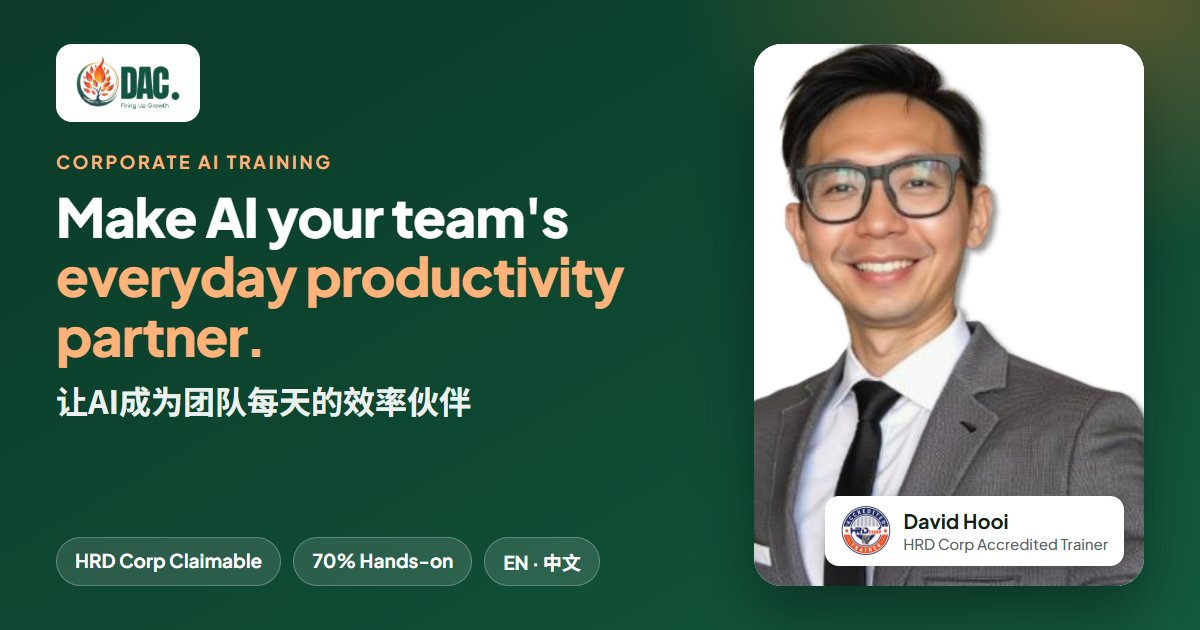
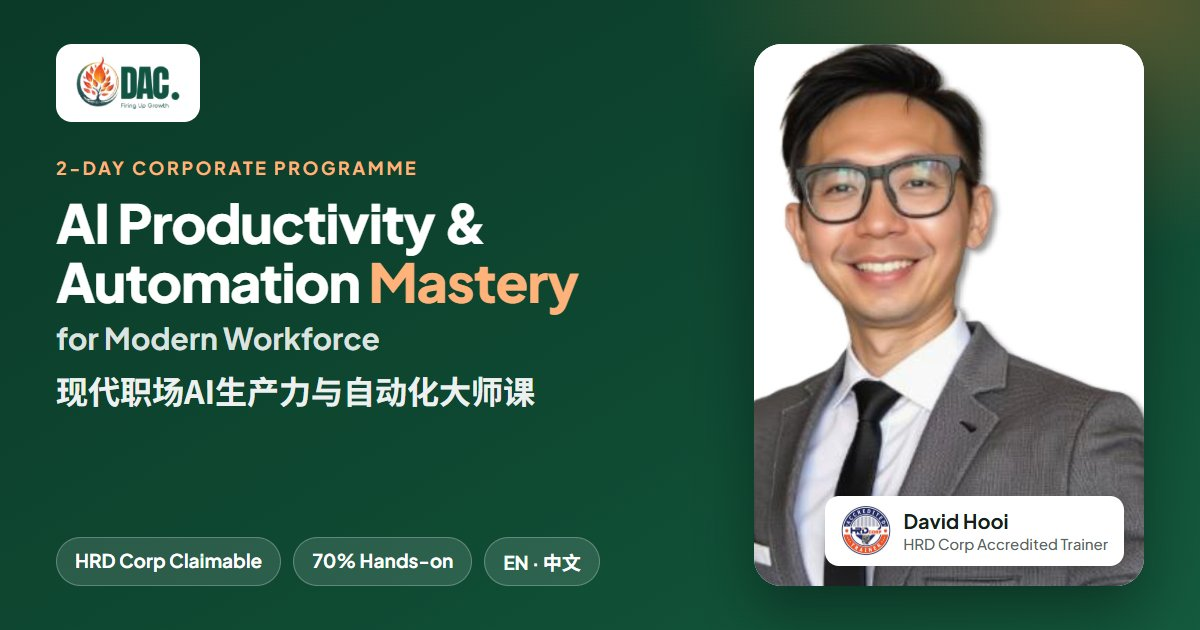
Introduce the AI Productivity & Automation Mastery course with interactive programme explorer
Course title in hero, meta tags and share thumbnail; About section with key facts;
Day 1/Day 2 tabs with expandable modules; role finder highlighting relevant modules.

Changed region(s): [[0.0308, 0.2413, 0.5242, 0.6635]]

diff --git a/index.html b/index.html
@@ -3,26 +3,26 @@
 <head>
 <meta charset="utf-8">
 <meta name="viewport" content="width=device-width, initial-scale=1">
-<title>AI for the Modern Workforce | David Hooi</title>
-<meta name="description" content="Hands-on corporate AI training by David Hooi, HRD Corp Accredited Trainer. Your team leaves with working AI assistants, dashboards, content and an AI roadmap. 企业AI实战培训。">
+<title>AI Productivity &amp; Automation Mastery for Modern Workforce | David Hooi</title>
+<meta name="description" content="AI Productivity &amp; Automation Mastery for Modern Workforce — a 2-day hands-on corporate programme by David Hooi, HRD Corp Accredited Trainer. HRD Corp claimable. 现代职场AI生产力与自动化大师课。">
 
 <meta property="og:type" content="website">
 <meta property="og:site_name" content="D Action Consultancy &amp; Services Sdn Bhd">
 <meta property="og:locale" content="en_MY">
 <meta property="og:locale:alternate" content="zh_CN">
 <meta property="og:url" content="https://dhooi266.github.io/ai-corporate-training/">
-<meta property="og:title" content="Make AI Your Team's Everyday Productivity Partner | 让AI成为团队的效率伙伴">
-<meta property="og:description" content="Hands-on corporate AI training by David Hooi — HRD Corp Accredited Trainer, 6,000+ professionals trained across 100+ companies. HRD Corp claimable. 企业AI实战培训，可申请HRD Corp。">
+<meta property="og:title" content="AI Productivity &amp; Automation Mastery for Modern Workforce | 现代职场AI生产力与自动化大师课">
+<meta property="og:description" content="2-day hands-on corporate programme by David Hooi — HRD Corp Accredited Trainer, 6,000+ professionals trained across 100+ companies. HRD Corp claimable. 企业AI实战培训，可申请HRD Corp。">
 <meta property="og:image" content="https://dhooi266.github.io/ai-corporate-training/og-image.jpg">
 <meta property="og:image:secure_url" content="https://dhooi266.github.io/ai-corporate-training/og-image.jpg">
 <meta property="og:image:type" content="image/jpeg">
 <meta property="og:image:width" content="1200">
 <meta property="og:image:height" content="630">
-<meta property="og:image:alt" content="Corporate AI training by David Hooi, D Action Consultancy.">
+<meta property="og:image:alt" content="AI Productivity &amp; Automation Mastery for Modern Workforce — trainer David Hooi, D Action Consultancy.">
 
 <meta name="twitter:card" content="summary_large_image">
-<meta name="twitter:title" content="Make AI Your Team's Everyday Productivity Partner">
-<meta name="twitter:description" content="Hands-on corporate AI training by David Hooi — HRD Corp Accredited Trainer. 企业AI实战培训。">
+<meta name="twitter:title" content="AI Productivity &amp; Automation Mastery for Modern Workforce">
+<meta name="twitter:description" content="2-day hands-on corporate programme by David Hooi — HRD Corp Accredited Trainer. 企业AI实战培训。">
 <meta name="twitter:image" content="https://dhooi266.github.io/ai-corporate-training/og-image.jpg">
 
 <meta name="theme-color" content="#0f4a33">
@@ -96,6 +96,9 @@ html[data-lang="zh"] .eyebrow{letter-spacing:.06em}
 .hero .eyebrow::before{background:#ffb27a}
 .hero h1{font-size:clamp(36px,5.2vw,62px);font-weight:800;margin:18px 0 20px}
 .hero h1 em{font-style:normal;color:#ffb27a}
+.hero h1 small{display:block;font-size:.44em;font-weight:700;color:rgba(255,255,255,.82);margin-top:12px;letter-spacing:0}
+html[data-lang="zh"] .hero h1 small{font-size:.34em;color:rgba(255,255,255,.62)}
+.hero .tagline{font-size:20px;font-weight:700;color:#fff;margin:0 0 14px;padding-left:14px;border-left:3px solid var(--orange)}
 .hero .lead{font-size:19px;color:rgba(255,255,255,.85);max-width:560px}
 .hero-cta{display:flex;flex-wrap:wrap;gap:12px;margin-top:32px}
 .hero-tags{display:flex;flex-wrap:wrap;gap:8px;margin-top:28px}
@@ -135,6 +138,65 @@ html[data-lang="zh"] .eyebrow{letter-spacing:.06em}
 .dl strong{display:block;font-size:18px;margin-bottom:4px}
 .dl span{color:rgba(255,255,255,.75);font-size:15px}
 .dl{padding:0;margin:0}
+
+/* about */
+.about-grid{display:grid;grid-template-columns:1.25fr .75fr;gap:56px;align-items:center}
+.about-p{color:var(--muted);margin-top:16px;font-size:18px}
+.about-p b{color:var(--ink)}
+.facts{display:grid;grid-template-columns:1fr 1fr;gap:14px}
+.fact{background:var(--green);color:#fff;border-radius:var(--radius);padding:24px 20px;transition:transform .2s}
+.fact:nth-child(2),.fact:nth-child(3){background:var(--orange-soft);color:var(--ink)}
+.fact:hover{transform:translateY(-4px)}
+.fact b{display:block;font-size:40px;font-weight:800;line-height:1}
+.fact b small{font-size:.45em;margin-left:4px}
+.fact:nth-child(2) b,.fact:nth-child(3) b{color:var(--orange-2)}
+.fact span{display:block;margin-top:8px;font-size:15px;font-weight:600;opacity:.9}
+
+/* explorer */
+.explorer{background:var(--bg-2)}
+.rolefinder{background:#fff;border:1px solid var(--line);border-radius:var(--radius);padding:24px;box-shadow:var(--shadow);margin-bottom:28px}
+.rf-q{font-weight:700;margin-bottom:12px}
+.roles{display:flex;flex-wrap:wrap;gap:10px}
+.role{font:inherit;font-size:15px;font-weight:600;padding:10px 18px;border-radius:999px;border:1.5px solid var(--line);background:#fff;color:var(--ink);cursor:pointer;transition:all .15s}
+.role:hover{border-color:var(--green-2);color:var(--green)}
+.role[aria-pressed="true"]{background:var(--green);border-color:var(--green);color:#fff}
+.rf-out{margin-top:20px;padding-top:18px;border-top:1px dashed var(--line);animation:fade .35s ease}
+.rf-h{font-weight:700;color:var(--orange-2);margin-bottom:10px}
+.rf-out ul{margin:0;padding:0;list-style:none;display:grid;grid-template-columns:repeat(3,1fr);gap:12px}
+.rf-out li{background:var(--green-soft);border-radius:12px;padding:14px 16px;font-weight:600;font-size:15px;color:var(--green)}
+@keyframes fade{from{opacity:0;transform:translateY(6px)}to{opacity:1;transform:none}}
+.tabs{display:grid;grid-template-columns:1fr 1fr;gap:12px;margin-bottom:16px}
+.tabs button{position:relative;font:inherit;text-align:left;cursor:pointer;border:1.5px solid var(--line);background:#fff;border-radius:16px;padding:16px 20px;display:flex;flex-direction:column;gap:2px;color:var(--ink);transition:all .15s}
+.tabs button b{font-size:13px;letter-spacing:.12em;text-transform:uppercase;color:var(--orange-2)}
+.tabs button span{font-weight:700;font-size:17px}
+.tabs button[aria-selected="true"]{background:var(--green);border-color:var(--green);color:#fff;box-shadow:0 12px 28px rgba(15,74,51,.25)}
+.tabs button[aria-selected="true"] b{color:#ffb27a}
+.cnt{position:absolute;top:12px;right:14px;font-style:normal;font-size:12px;font-weight:800;background:var(--orange);color:#fff;border-radius:999px;padding:2px 9px;display:none}
+.cnt.on{display:block}
+.pane{display:grid;gap:12px;animation:fade .3s ease}
+.pane[hidden]{display:none}
+.mod{background:#fff;border:1.5px solid var(--line);border-radius:16px;overflow:hidden;transition:border-color .2s,box-shadow .2s,opacity .2s}
+.mod summary{list-style:none;display:flex;align-items:center;gap:16px;padding:18px 20px;cursor:pointer}
+.mod summary::-webkit-details-marker{display:none}
+.mod .mn{flex:none;width:46px;height:46px;border-radius:12px;background:var(--green-soft);color:var(--green);font-weight:800;display:grid;place-items:center;transition:background .2s,color .2s}
+.mod[open] .mn{background:var(--green);color:#fff}
+.mt{flex:1;min-width:0}
+.mt small{display:block;font-size:13px;font-weight:600;color:var(--muted)}
+.mt strong{font-size:18px;line-height:1.35}
+.rel{display:none;flex:none;font-size:12px;font-weight:800;color:#fff;background:var(--orange);padding:4px 10px;border-radius:999px}
+.chev{flex:none;width:12px;height:12px;border-right:2.5px solid var(--muted);border-bottom:2.5px solid var(--muted);transform:rotate(45deg);transition:transform .2s;margin:0 6px 6px 0}
+.mod[open] .chev{transform:rotate(-135deg);margin:6px 6px 0 0}
+.mb{padding:0 20px 20px 82px}
+.mb ul{margin:0 0 14px;padding-left:18px;color:var(--muted)}
+.mb li{margin:4px 0}
+.mb li b{color:var(--ink)}
+.ex{background:var(--orange-soft);border-radius:12px;padding:12px 16px;font-size:15px}
+.ex b{color:var(--orange-2)}
+.explorer.filtering .mod{opacity:.5}
+.explorer.filtering .mod.hl{opacity:1;border-color:var(--orange);box-shadow:0 10px 26px rgba(232,121,47,.15)}
+.mod.hl .rel{display:inline-block}
+@media (max-width:960px){.about-grid{grid-template-columns:1fr;gap:32px}.rf-out ul{grid-template-columns:1fr}}
+@media (max-width:640px){.mb{padding:0 16px 18px}.mod summary{padding:16px;gap:12px}.mod .mn{width:40px;height:40px}.mt strong{font-size:16px}.rel{display:none!important}.tabs button{padding:14px}.tabs button span{font-size:15px}.fact b{font-size:32px}}
 
 /* impact */
 .impact{display:grid;grid-template-columns:repeat(4,1fr);gap:20px}
@@ -278,18 +340,19 @@ footer .flogo img{height:38px;width:auto}
 <header class="hero" id="top">
   <div class="wrap">
     <div>
-      <span class="eyebrow"><span class="en">Corporate AI Training · HRD Corp Claimable</span><span class="zh">企业AI培训 · 可申请 HRD Corp</span></span>
+      <span class="eyebrow"><span class="en">2-Day Corporate Programme · HRD Corp Claimable</span><span class="zh">两天企业培训课程 · 可申请 HRD Corp</span></span>
       <h1>
-        <span class="en">Make AI your team's <em>everyday productivity partner.</em></span>
-        <span class="zh">让AI成为团队<em>每天都在用的效率伙伴。</em></span>
+        <span class="en">AI Productivity &amp; Automation <em>Mastery</em><small>for Modern Workforce</small></span>
+        <span class="zh">现代职场AI生产力与<em>自动化大师课</em><small lang="en">AI Productivity &amp; Automation Mastery for Modern Workforce</small></span>
       </h1>
+      <p class="tagline"><span class="en">Make AI your team's everyday productivity partner.</span><span class="zh">让AI成为团队每天都在用的效率伙伴。</span></p>
       <p class="lead">
-        <span class="en">A hands-on, in-house programme that moves your people beyond basic chatting with AI. They leave with working AI assistants, dashboards, content and a clear roadmap — ready to use the next working day.</span>
-        <span class="zh">一套为企业量身打造的实战培训，带领员工超越“只会和AI聊天”的阶段。学员离开课堂时，手上已经有可运作的AI助手、数据仪表板、内容成品和清晰的AI落地路线图——第二天上班就能用。</span>
+        <span class="en">A hands-on 2-day programme that moves your people beyond basic chatting with AI. They leave with working AI assistants, dashboards, content and a clear roadmap — ready to use the next working day.</span>
+        <span class="zh">一套为企业量身打造的两天实战课程，带领员工超越“只会和AI聊天”的阶段。学员离开课堂时，手上已经有可运作的AI助手、数据仪表板、内容成品和清晰的AI落地路线图——第二天上班就能用。</span>
       </p>
       <div class="hero-cta">
         <a class="btn btn-primary" href="https://wa.me/60184043913" target="_blank" rel="noopener"><svg><use href="#i-wa"/></svg><span class="en">WhatsApp David</span><span class="zh">WhatsApp 联系 David</span></a>
-        <a class="btn btn-ghost" href="#gains"><span class="en">What your team gains</span><span class="zh">团队将获得什么</span></a>
+        <a class="btn btn-ghost" href="#programme"><span class="en">Explore the programme</span><span class="zh">查看课程内容</span></a>
       </div>
       <div class="hero-tags">
         <span class="en">2-day in-house</span><span class="zh">两天企业内训</span>
@@ -320,6 +383,22 @@ footer .flogo img{height:38px;width:auto}
 <section class="logostrip" aria-label="Organisations trained">
   <p class="ls-title"><span class="en">Trusted by teams at</span><span class="zh">合作过的机构包括</span></p>
   <div class="marquee"><div class="track"><img src="assets/logos/exxonmobil.png" alt="ExxonMobil"><img src="assets/logos/novartis.png" alt="Novartis"><img src="assets/logos/greateastern.png" alt="Great Eastern"><img src="assets/logos/rhb.png" alt="RHB"><img src="assets/logos/kwsp.png" alt="KWSP"><img src="assets/logos/tesla.png" alt="Tesla"><img src="assets/logos/intel.png" alt="Intel"><img src="assets/logos/electrolux.png" alt="Electrolux"><img src="assets/logos/tnb.png" alt="Tenaga Nasional"><img src="assets/logos/drbhicom.png" alt="DRB-HICOM"><img src="assets/logos/uobkayhian.png" alt="UOB Kay Hian"><img src="assets/logos/aon.png" alt="AON"><img src="assets/logos/haier.png" alt="Haier"><img src="assets/logos/sunway.png" alt="Sunway Medical Centre"><img src="assets/logos/nuskin.png" alt="Nu Skin"><img src="assets/logos/mubadala.png" alt="Mubadala Energy"><img src="assets/logos/proton.png" alt="Proton"><img src="assets/logos/kkmm.png" alt="KKMM"><img src="assets/logos/demant.png" alt="Demant"><img src="assets/logos/bsv.png" alt="BSV"><img src="assets/logos/menarini.png" alt="Menarini"><img src="assets/logos/jump.png" alt="Jump Retail"><img src="assets/logos/cid.png" alt="CID Realtors"><img src="assets/logos/kim.png" alt="KIM Realty"><img src="assets/logos/kbs.png" alt="KBS"><img src="assets/logos/ouji.png" alt="OUJI"><img src="assets/logos/exxonmobil.png" alt="" aria-hidden="true"><img src="assets/logos/novartis.png" alt="" aria-hidden="true"><img src="assets/logos/greateastern.png" alt="" aria-hidden="true"><img src="assets/logos/rhb.png" alt="" aria-hidden="true"><img src="assets/logos/kwsp.png" alt="" aria-hidden="true"><img src="assets/logos/tesla.png" alt="" aria-hidden="true"><img src="assets/logos/intel.png" alt="" aria-hidden="true"><img src="assets/logos/electrolux.png" alt="" aria-hidden="true"><img src="assets/logos/tnb.png" alt="" aria-hidden="true"><img src="assets/logos/drbhicom.png" alt="" aria-hidden="true"><img src="assets/logos/uobkayhian.png" alt="" aria-hidden="true"><img src="assets/logos/aon.png" alt="" aria-hidden="true"><img src="assets/logos/haier.png" alt="" aria-hidden="true"><img src="assets/logos/sunway.png" alt="" aria-hidden="true"><img src="assets/logos/nuskin.png" alt="" aria-hidden="true"><img src="assets/logos/mubadala.png" alt="" aria-hidden="true"><img src="assets/logos/proton.png" alt="" aria-hidden="true"><img src="assets/logos/kkmm.png" alt="" aria-hidden="true"><img src="assets/logos/demant.png" alt="" aria-hidden="true"><img src="assets/logos/bsv.png" alt="" aria-hidden="true"><img src="assets/logos/menarini.png" alt="" aria-hidden="true"><img src="assets/logos/jump.png" alt="" aria-hidden="true"><img src="assets/logos/cid.png" alt="" aria-hidden="true"><img src="assets/logos/kim.png" alt="" aria-hidden="true"><img src="assets/logos/kbs.png" alt="" aria-hidden="true"><img src="assets/logos/ouji.png" alt="" aria-hidden="true"></div></div>
+</section>
+<section class="sec about" id="about">
+  <div class="wrap about-grid">
+    <div>
+      <span class="eyebrow"><span class="en">About the programme</span><span class="zh">课程简介</span></span>
+      <h2 style="margin-top:14px"><span class="en">Move beyond basic chatting with AI</span><span class="zh">超越“只会和AI聊天”</span></h2>
+      <p class="about-p"><span class="en"><b>AI Productivity &amp; Automation Mastery for Modern Workforce</b> equips professionals to use AI across content creation, research, data analysis and workflow automation. Participants work hands-on with ChatGPT, Claude, Gemini, Perplexity, DeepSeek, NotebookLM and leading visual and video tools, and build custom GPTs that take repetitive work off their plate.</span><span class="zh"><b>现代职场AI生产力与自动化大师课</b>帮助专业人士把AI应用到内容创作、调研、数据分析与工作流程自动化之中。学员将亲手操作 ChatGPT、Claude、Gemini、Perplexity、DeepSeek、NotebookLM 以及主流视觉与视频工具，并打造专属 GPT，把重复性工作交给AI。</span></p>
+      <p class="about-p"><span class="en">The two days end with every department building a practical AI implementation roadmap, so adoption continues after the training.</span><span class="zh">两天课程的最后，每个部门都会制定一份实用的AI落地路线图，确保培训结束后AI应用能持续推进。</span></p>
+    </div>
+    <div class="facts">
+      <div class="fact"><b>2</b><span><span class="en">days, 9:00 am – 5:00 pm</span><span class="zh">天，上午9点至下午5点</span></span></div>
+      <div class="fact"><b>6</b><span><span class="en">modules + final project</span><span class="zh">个模块 + 结业项目</span></span></div>
+      <div class="fact"><b>15+</b><span><span class="en">AI tools, hands-on</span><span class="zh">款AI工具实操</span></span></div>
+      <div class="fact"><b>HRD<small>Corp</small></b><span><span class="en">claimable</span><span class="zh">可申请津贴</span></span></div>
+    </div>
+  </div>
 </section>
 <section class="sec" id="gains">
   <div class="wrap">
@@ -359,6 +438,90 @@ footer .flogo img{height:38px;width:auto}
         <h3><span class="en">On-brand visuals &amp; video</span><span class="zh">符合品牌的视觉与视频</span></h3>
         <p><span class="en">Create images and short videos for marketing, training and internal comms that stay consistent with the company's brand.</span><span class="zh">为营销、培训与内部沟通制作图片和短视频，同时保持企业品牌风格一致。</span></p>
       </article>
+    </div>
+  </div>
+</section>
+
+<section class="sec explorer" id="programme">
+  <div class="wrap">
+    <div class="sec-head">
+      <span class="eyebrow"><span class="en">Explore the programme</span><span class="zh">课程内容</span></span>
+      <h2 style="margin-top:14px"><span class="en">Two days, six modules, one roadmap</span><span class="zh">两天、六个模块、一份路线图</span></h2>
+      <p><span class="en">Pick your role to see which modules will matter most to you, then open any module for the details.</span><span class="zh">选择您的岗位，看看哪些模块与您最相关；点击任一模块查看详细内容。</span></p>
+    </div>
+
+    <div class="rolefinder">
+      <p class="rf-q"><span class="en">I work in…</span><span class="zh">我的岗位是…</span></p>
+      <div class="roles" role="group" aria-label="Role">
+        <button type="button" class="role" data-role="sales" aria-pressed="false"><span class="en">Sales &amp; BD</span><span class="zh">销售与业务拓展</span></button>
+        <button type="button" class="role" data-role="mkt" aria-pressed="false"><span class="en">Marketing &amp; Comms</span><span class="zh">市场与传播</span></button>
+        <button type="button" class="role" data-role="mgr" aria-pressed="false"><span class="en">Managers &amp; Leaders</span><span class="zh">经理与管理层</span></button>
+        <button type="button" class="role" data-role="hr" aria-pressed="false"><span class="en">HR &amp; L&amp;D</span><span class="zh">人力资源与培训</span></button>
+        <button type="button" class="role" data-role="fin" aria-pressed="false"><span class="en">Finance &amp; Analysts</span><span class="zh">财务与分析</span></button>
+        <button type="button" class="role" data-role="ops" aria-pressed="false"><span class="en">Operations &amp; Admin</span><span class="zh">营运与行政</span></button>
+      </div>
+      <div class="rf-out" id="rfOut" hidden>
+        <p class="rf-h"><span class="en">What you could do after the programme:</span><span class="zh">课程结束后，您可以：</span></p>
+        <ul id="rfWins"></ul>
+      </div>
+    </div>
+
+    <div class="tabs" role="tablist" aria-label="Programme days">
+      <button type="button" role="tab" id="tab-d1" aria-controls="pane-d1" aria-selected="true"><b><span class="en">Day 1</span><span class="zh">第一天</span></b><span><span class="en">Create, Analyse &amp; Automate</span><span class="zh">创作、分析与自动化</span></span><i class="cnt" data-cnt="d1"></i></button>
+      <button type="button" role="tab" id="tab-d2" aria-controls="pane-d2" aria-selected="false"><b><span class="en">Day 2</span><span class="zh">第二天</span></b><span><span class="en">Data, Visuals &amp; Roadmap</span><span class="zh">数据、视觉与路线图</span></span><i class="cnt" data-cnt="d2"></i></button>
+    </div>
+    <div class="pane" id="pane-d1" role="tabpanel" aria-labelledby="tab-d1">
+          <details class="mod" data-mod="m1" open>
+            <summary><span class="mn">M1</span><span class="mt"><small>9:30 – 11:00</small><strong><span class="en">Introduction to AI &amp; Prompt Engineering</span><span class="zh">AI入门与提示工程</span></strong></span><span class="rel"><span class="en">For your role</span><span class="zh">适合您的岗位</span></span><span class="chev" aria-hidden="true"></span></summary>
+            <div class="mb">
+              <ul><li><span class="en">AI use cases in business and how AI evolved</span><span class="zh">AI商业应用案例与AI的发展历程</span></li><li><span class="en">Prompt fundamentals: clarity, context and constraints</span><span class="zh">指令基础：清晰、情境与限制</span></li><li><span class="en">The CoSTAR framework — control tone, audience, format and accuracy</span><span class="zh">CoSTAR 框架——掌控语气、对象、格式与准确度</span></li><li><span class="en">Iterate: refine prompts with feedback and examples</span><span class="zh">迭代：用反馈与示例优化指令</span></li></ul>
+              <p class="ex"><b><span class="en">Hands-on:</span><span class="zh">实操：</span></b> <span class="en">write a sales performance email and a full marketing campaign with CoSTAR.</span><span class="zh">用 CoSTAR 撰写销售业绩电邮与完整营销方案。</span></p>
+            </div>
+          </details>
+          <details class="mod" data-mod="m2">
+            <summary><span class="mn">M2</span><span class="mt"><small>11:15 – 12:45</small><strong><span class="en">LLMs for Content, Analysis &amp; Business Insights</span><span class="zh">用大语言模型做内容、分析与商业洞察</span></strong></span><span class="rel"><span class="en">For your role</span><span class="zh">适合您的岗位</span></span><span class="chev" aria-hidden="true"></span></summary>
+            <div class="mb">
+              <ul><li><span class="en"><b>ChatGPT</b> — interpret a large dataset with visuals and insights</span><span class="zh"><b>ChatGPT</b>——解读大型数据集并生成图表与洞察</span></li><li><span class="en"><b>Claude</b> — generate an interactive performance dashboard</span><span class="zh"><b>Claude</b>——生成互动式业绩仪表板</span></li><li><span class="en"><b>Perplexity</b> — deep research for competitive industry analysis</span><span class="zh"><b>Perplexity</b>——深度调研，完成行业竞争分析</span></li><li><span class="en"><b>DeepSeek</b> — marketing write-ups, local translation, 3-month LinkedIn plan</span><span class="zh"><b>DeepSeek</b>——营销文案、本地化翻译、三个月 LinkedIn 内容规划</span></li><li><span class="en"><b>Gemini</b> — vibe-code an AI assistant that runs data analysis</span><span class="zh"><b>Gemini</b>——用 vibe coding 打造自动数据分析助手</span></li></ul>
+              <p class="ex"><b><span class="en">Hands-on:</span><span class="zh">实操：</span></b> <span class="en">one exercise per tool, each on a real business case.</span><span class="zh">每款工具一个练习，皆为真实业务案例。</span></p>
+            </div>
+          </details>
+          <details class="mod" data-mod="m3">
+            <summary><span class="mn">M3</span><span class="mt"><small>1:45 – 3:15</small><strong><span class="en">Productivity Tools &amp; AI-Enhanced Workflows</span><span class="zh">效率工具与AI增强工作流程</span></strong></span><span class="rel"><span class="en">For your role</span><span class="zh">适合您的岗位</span></span><span class="chev" aria-hidden="true"></span></summary>
+            <div class="mb">
+              <ul><li><span class="en">Presentations with Gamma, Napkin AI and Nano Banana Pro</span><span class="zh">用 Gamma、Napkin AI、Nano Banana Pro 制作简报</span></li><li><span class="en">Workflow thinking: input → extract → structure → publish</span><span class="zh">流程思维：输入 → 提取 → 结构化 → 发布</span></li><li><span class="en">NotebookLM: summarise PDFs, Excel, video, image and audio into briefings</span><span class="zh">NotebookLM：把 PDF、Excel、视频、图片与音频整理成汇报重点</span></li></ul>
+              <p class="ex"><b><span class="en">Hands-on:</span><span class="zh">实操：</span></b> <span class="en">build a full slide deck against the clock, turn a report into a one-page infographic poster.</span><span class="zh">限时完成整套简报，并把报告变成一页信息图海报。</span></p>
+            </div>
+          </details>
+          <details class="mod" data-mod="m4">
+            <summary><span class="mn">M4</span><span class="mt"><small>3:30 – 5:00</small><strong><span class="en">Custom GPTs &amp; Chatbots to Automate Work</span><span class="zh">打造自动化工作的专属GPT与聊天机器人</span></strong></span><span class="rel"><span class="en">For your role</span><span class="zh">适合您的岗位</span></span><span class="chev" aria-hidden="true"></span></summary>
+            <div class="mb">
+              <ul><li><span class="en">Build and customise GPTs for workflow automation</span><span class="zh">构建与定制用于流程自动化的 GPT</span></li><li><span class="en">Design a GPT for your role: FAQ bot, content assistant or workflow orchestrator</span><span class="zh">为岗位设计 GPT：FAQ 机器人、内容助理或流程协调助手</span></li></ul>
+              <p class="ex"><b><span class="en">Hands-on:</span><span class="zh">实操：</span></b> <span class="en">teams automate a common business task and present their solution.</span><span class="zh">各组自动化一项常见业务任务并汇报方案。</span></p>
+            </div>
+          </details>
+    </div>
+    <div class="pane" id="pane-d2" role="tabpanel" aria-labelledby="tab-d2" hidden>
+          <details class="mod" data-mod="m5" open>
+            <summary><span class="mn">M5</span><span class="mt"><small>9:15 – 11:00</small><strong><span class="en">Data &amp; Financial Analysis with AI</span><span class="zh">用AI做数据与财务分析</span></strong></span><span class="rel"><span class="en">For your role</span><span class="zh">适合您的岗位</span></span><span class="chev" aria-hidden="true"></span></summary>
+            <div class="mb">
+              <ul><li><span class="en">Import, clean and analyse datasets with AI assistants</span><span class="zh">用AI助手导入、清理与分析数据</span></li><li><span class="en">Generate financial models and projection dashboards</span><span class="zh">生成财务模型与预测仪表板</span></li></ul>
+              <p class="ex"><b><span class="en">Hands-on:</span><span class="zh">实操：</span></b> <span class="en">financial forecasting, cash-flow modelling, budget scenarios and supplier evaluation.</span><span class="zh">财务预测、现金流建模、预算情境分析与供应商评估。</span></p>
+            </div>
+          </details>
+          <details class="mod" data-mod="m6">
+            <summary><span class="mn">M6</span><span class="mt"><small>11:15 – 1:00</small><strong><span class="en">AI for Visual &amp; Video Content Creation</span><span class="zh">AI视觉与视频内容创作</span></strong></span><span class="rel"><span class="en">For your role</span><span class="zh">适合您的岗位</span></span><span class="chev" aria-hidden="true"></span></summary>
+            <div class="mb">
+              <ul><li><span class="en">Image and video generation for marketing, training and internal comms</span><span class="zh">为营销、培训与内部沟通生成图片与视频</span></li><li><span class="en">Tools: Leonardo, Ideogram, Nano Banana Pro, SeeDream, Veo 3, Sora 2</span><span class="zh">工具：Leonardo、Ideogram、Nano Banana Pro、SeeDream、Veo 3、Sora 2</span></li><li><span class="en">Keeping visuals and video consistent with your brand</span><span class="zh">确保视觉与视频保持品牌一致</span></li></ul>
+              <p class="ex"><b><span class="en">Hands-on:</span><span class="zh">实操：</span></b> <span class="en">create a video-enhanced visual campaign for a product or internal comms.</span><span class="zh">为产品或内部沟通制作结合视频的视觉宣传。</span></p>
+            </div>
+          </details>
+          <details class="mod" data-mod="fp">
+            <summary><span class="mn">★</span><span class="mt"><small>2:10 – 4:55</small><strong><span class="en">Final Project: AI Implementation Roadmap</span><span class="zh">结业项目：AI落地路线图</span></strong></span><span class="rel"><span class="en">For your role</span><span class="zh">适合您的岗位</span></span><span class="chev" aria-hidden="true"></span></summary>
+            <div class="mb">
+              <ul><li><span class="en">Problem statement, AI use cases, stakeholders, tools and data</span><span class="zh">问题陈述、AI应用场景、相关人员、工具与数据</span></li><li><span class="en">Pilot plan and success metrics</span><span class="zh">试点计划与成功指标</span></li><li><span class="en">Map use cases into quick wins (3–6 mo), mid-term (6–12 mo) and long-term (12–24 mo)</span><span class="zh">把应用场景规划为短期（3–6个月）、中期（6–12个月）与长期（12–24个月）</span></li></ul>
+              <p class="ex"><b><span class="en">Hands-on:</span><span class="zh">实操：</span></b> <span class="en">each group presents its department roadmap.</span><span class="zh">各组汇报部门AI路线图。</span></p>
+            </div>
+          </details>
     </div>
   </div>
 </section>
@@ -469,8 +632,8 @@ footer .flogo img{height:38px;width:auto}
 
 <section class="sec cta" id="contact">
   <div class="wrap">
-    <h2><span class="en">Bring practical AI to your team</span><span class="zh">把实用AI带进您的团队</span></h2>
-    <p><span class="en">Tell us about your team and goals — we'll tailor the examples, exercises and tools to your industry. HRD Corp claimable.</span><span class="zh">告诉我们您的团队与目标，我们会根据您的行业量身调整案例、练习与工具。可申请 HRD Corp 津贴。</span></p>
+    <h2><span class="en">Bring AI Productivity &amp; Automation Mastery to your team</span><span class="zh">把AI生产力与自动化大师课带进您的团队</span></h2>
+    <p><span class="en">Run it in-house for your organisation. Tell us about your team and goals — we'll tailor the examples, exercises and tools to your industry. HRD Corp claimable.</span><span class="zh">为您的机构举办企业内训。告诉我们您的团队与目标，我们会根据您的行业量身调整案例、练习与工具。可申请 HRD Corp 津贴。</span></p>
     <div class="hero-cta">
       <a class="btn btn-primary" href="https://wa.me/60184043913" target="_blank" rel="noopener"><svg><use href="#i-wa"/></svg><span class="en">WhatsApp +60 18-404 3913</span><span class="zh">WhatsApp +60 18-404 3913</span></a>
       <a class="btn btn-ghost" href="mailto:david@daction.com"><svg><use href="#i-mail"/></svg>david@daction.com</a>
@@ -490,7 +653,7 @@ footer .flogo img{height:38px;width:auto}
 <script>document.documentElement.classList.add("js");</script>
 <script>
 (function(){
-  var titles={en:"AI for the Modern Workforce | David Hooi",zh:"企业AI实战培训 | David Hooi"};
+  var titles={en:"AI Productivity & Automation Mastery for Modern Workforce | David Hooi",zh:"现代职场AI生产力与自动化大师课 | David Hooi"};
   function setLang(l){
     if(l!=="zh")l="en";
     var h=document.documentElement;
@@ -504,7 +667,30 @@ footer .flogo img{height:38px;width:auto}
   try{saved=localStorage.getItem("lang")}catch(e){}
   var nav=(navigator.language||"").toLowerCase().indexOf("zh")===0?"zh":"en";
   setLang(q||saved||nav);
-  var els=document.querySelectorAll(".sec-head,.card,.dl li,.imp,.step,.mix,.t-photo,.creds,.brands .box,.cta h2,.toolwall");
+
+  /* programme tabs */
+  var tabs=document.querySelectorAll('.tabs [role=tab]');
+  function showTab(t){tabs.forEach(function(b){var on=b===t;b.setAttribute('aria-selected',on);document.getElementById(b.getAttribute('aria-controls')).hidden=!on})}
+  tabs.forEach(function(b){b.addEventListener('click',function(){showTab(b)})});
+  /* role finder */
+  var R={"sales":{"mods":["m1","m2","m4","m6"],"wins":[["Personalised follow-up emails in minutes","几分钟写好个性化跟进电邮"],["Competitor research briefs with Perplexity","用 Perplexity 做竞争对手调研"],["A GPT that drafts proposals and replies","自动起草提案与回复的 GPT"]]},"mkt":{"mods":["m1","m2","m3","m6"],"wins":[["A 3-month content calendar in one sitting","一次完成三个月内容规划"],["On-brand visuals and short videos","符合品牌的视觉与短视频"],["Reports turned into shareable infographics","把报告变成可分享的信息图"]]},"mgr":{"mods":["m2","m3","m5","fp"],"wins":[["Team dashboards without waiting on IT","无需等IT就能做团队仪表板"],["Long documents condensed into briefings","把长篇文件浓缩成汇报重点"],["A department AI roadmap to lead adoption","带领团队落地的部门AI路线图"]]},"hr":{"mods":["m1","m3","m4","fp"],"wins":[["An HR FAQ bot for employee questions","解答员工问题的 HR FAQ 机器人"],["Training decks and materials, fast","快速制作培训简报与教材"],["Policies summarised with NotebookLM","用 NotebookLM 摘要公司政策"]]},"fin":{"mods":["m2","m3","m5"],"wins":[["Forecasts and cash-flow models with AI","用AI做预测与现金流模型"],["Budget scenarios compared in minutes","几分钟比较多种预算情境"],["Supplier evaluation analysis","供应商评估分析"]]},"ops":{"mods":["m1","m3","m4","m5"],"wins":[["Repetitive reports automated","自动化重复性报告"],["SOPs and documents summarised instantly","即时摘要 SOP 与文件"],["A workflow-orchestrator GPT","协调工作流程的 GPT"]]}};
+  var ex=document.querySelector('.explorer'),out=document.getElementById('rfOut'),wins=document.getElementById('rfWins');
+  document.querySelectorAll('.role').forEach(function(btn){btn.addEventListener('click',function(){
+    var on=btn.getAttribute('aria-pressed')!=='true';
+    document.querySelectorAll('.role').forEach(function(b){b.setAttribute('aria-pressed','false')});
+    document.querySelectorAll('.mod').forEach(function(m){m.classList.remove('hl')});
+    document.querySelectorAll('.cnt').forEach(function(c){c.classList.remove('on')});
+    if(!on){ex.classList.remove('filtering');out.hidden=true;return}
+    btn.setAttribute('aria-pressed','true');ex.classList.add('filtering');
+    var r=R[btn.dataset.role],first=null;
+    r.mods.forEach(function(id){var m=document.querySelector('.mod[data-mod="'+id+'"]');m.classList.add('hl');if(!first)first=m});
+    ['d1','d2'].forEach(function(d){var n=document.querySelectorAll('#pane-'+d+' .mod.hl').length,c=document.querySelector('[data-cnt='+d+']');c.textContent=n;c.classList.toggle('on',n>0)});
+    wins.innerHTML=r.wins.map(function(w){return '<li><span class="en">'+w[0]+'</span><span class="zh">'+w[1]+'</span></li>'}).join('');
+    out.hidden=false;
+    if(first){showTab(document.getElementById(first.closest('.pane').id.replace('pane','tab')));document.querySelectorAll('.mod').forEach(function(m){m.open=m.classList.contains('hl')&&m===first})}
+  })});
+  document.querySelectorAll('.tabs button').forEach(function(b){b.addEventListener('click',function(){var p=document.getElementById(b.getAttribute('aria-controls'));var f=p.querySelector('.mod.hl')||p.querySelector('.mod');if(f&&!p.querySelector('.mod[open]'))f.open=true})});
+  var els=document.querySelectorAll(".fact,.rolefinder,.tabs,.sec-head,.card,.dl li,.imp,.step,.mix,.t-photo,.creds,.brands .box,.cta h2,.toolwall");
   els.forEach(function(e,i){e.classList.add("reveal");e.style.transitionDelay=((i%3)*80)+"ms"});
   if("IntersectionObserver" in window){var io=new IntersectionObserver(function(es){es.forEach(function(x){if(x.isIntersecting){x.target.classList.add("in");io.unobserve(x.target)}})},{threshold:.12});els.forEach(function(e){io.observe(e)})}else{els.forEach(function(e){e.classList.add("in")})}
   document.querySelectorAll("[data-set-lang]").forEach(function(b){

diff --git a/og-card-source.html b/og-card-source.html
@@ -6,9 +6,10 @@ body{width:1200px;height:630px;overflow:hidden;font-family:"Plus Jakarta Sans","
 background:radial-gradient(700px 420px at 92% 0%,rgba(232,121,47,.35),transparent 60%),linear-gradient(150deg,#0b3a28,#0f4a33 60%,#145a3e);color:#fff;position:relative}
 .logo{position:absolute;left:56px;top:44px;background:#fff;border-radius:16px;padding:10px 18px}
 .logo img{height:58px;display:block}
-.txt{position:absolute;left:56px;top:150px;width:640px}
+.txt{position:absolute;left:56px;top:156px;width:640px}
 .tag{color:#ffb27a;font-weight:700;letter-spacing:.14em;font-size:18px;text-transform:uppercase}
 h1{font-size:54px;line-height:1.1;font-weight:800;margin:14px 0 12px;letter-spacing:-.02em}
+h1 small{display:block;font-size:30px;font-weight:700;color:rgba(255,255,255,.85);margin-top:10px;letter-spacing:0}
 h1 em{font-style:normal;color:#ffb27a}
 .zh{font-family:"Noto Sans SC";font-weight:700;font-size:32px;color:rgba(255,255,255,.92)}
 .row{position:absolute;left:56px;bottom:44px;display:flex;gap:12px}
@@ -19,9 +20,9 @@ h1 em{font-style:normal;color:#ffb27a}
 .name img{width:50px;height:50px}.name b{display:block;font-size:20px}.name small{color:#58665f;font-size:15px}
 </style></head><body>
 <div class="logo"><img src="assets/dac-logo.png"></div>
-<div class="txt"><div class="tag">Corporate AI Training</div>
-<h1>Make AI your team's <em>everyday productivity partner.</em></h1>
-<div class="zh">让AI成为团队每天的效率伙伴</div></div>
+<div class="txt"><div class="tag">2-Day Corporate Programme</div>
+<h1>AI Productivity &amp; Automation <em>Mastery</em><small>for Modern Workforce</small></h1>
+<div class="zh">现代职场AI生产力与自动化大师课</div></div>
 <div class="row"><span>HRD Corp Claimable</span><span>70% Hands-on</span><span>EN · 中文</span></div>
 <div class="photo"><img src="assets/david-hooi.jpg"></div>
 <div class="name"><img src="assets/hrdc-badge.png"><div><b>David Hooi</b><small>HRD Corp Accredited Trainer</small></div></div>
